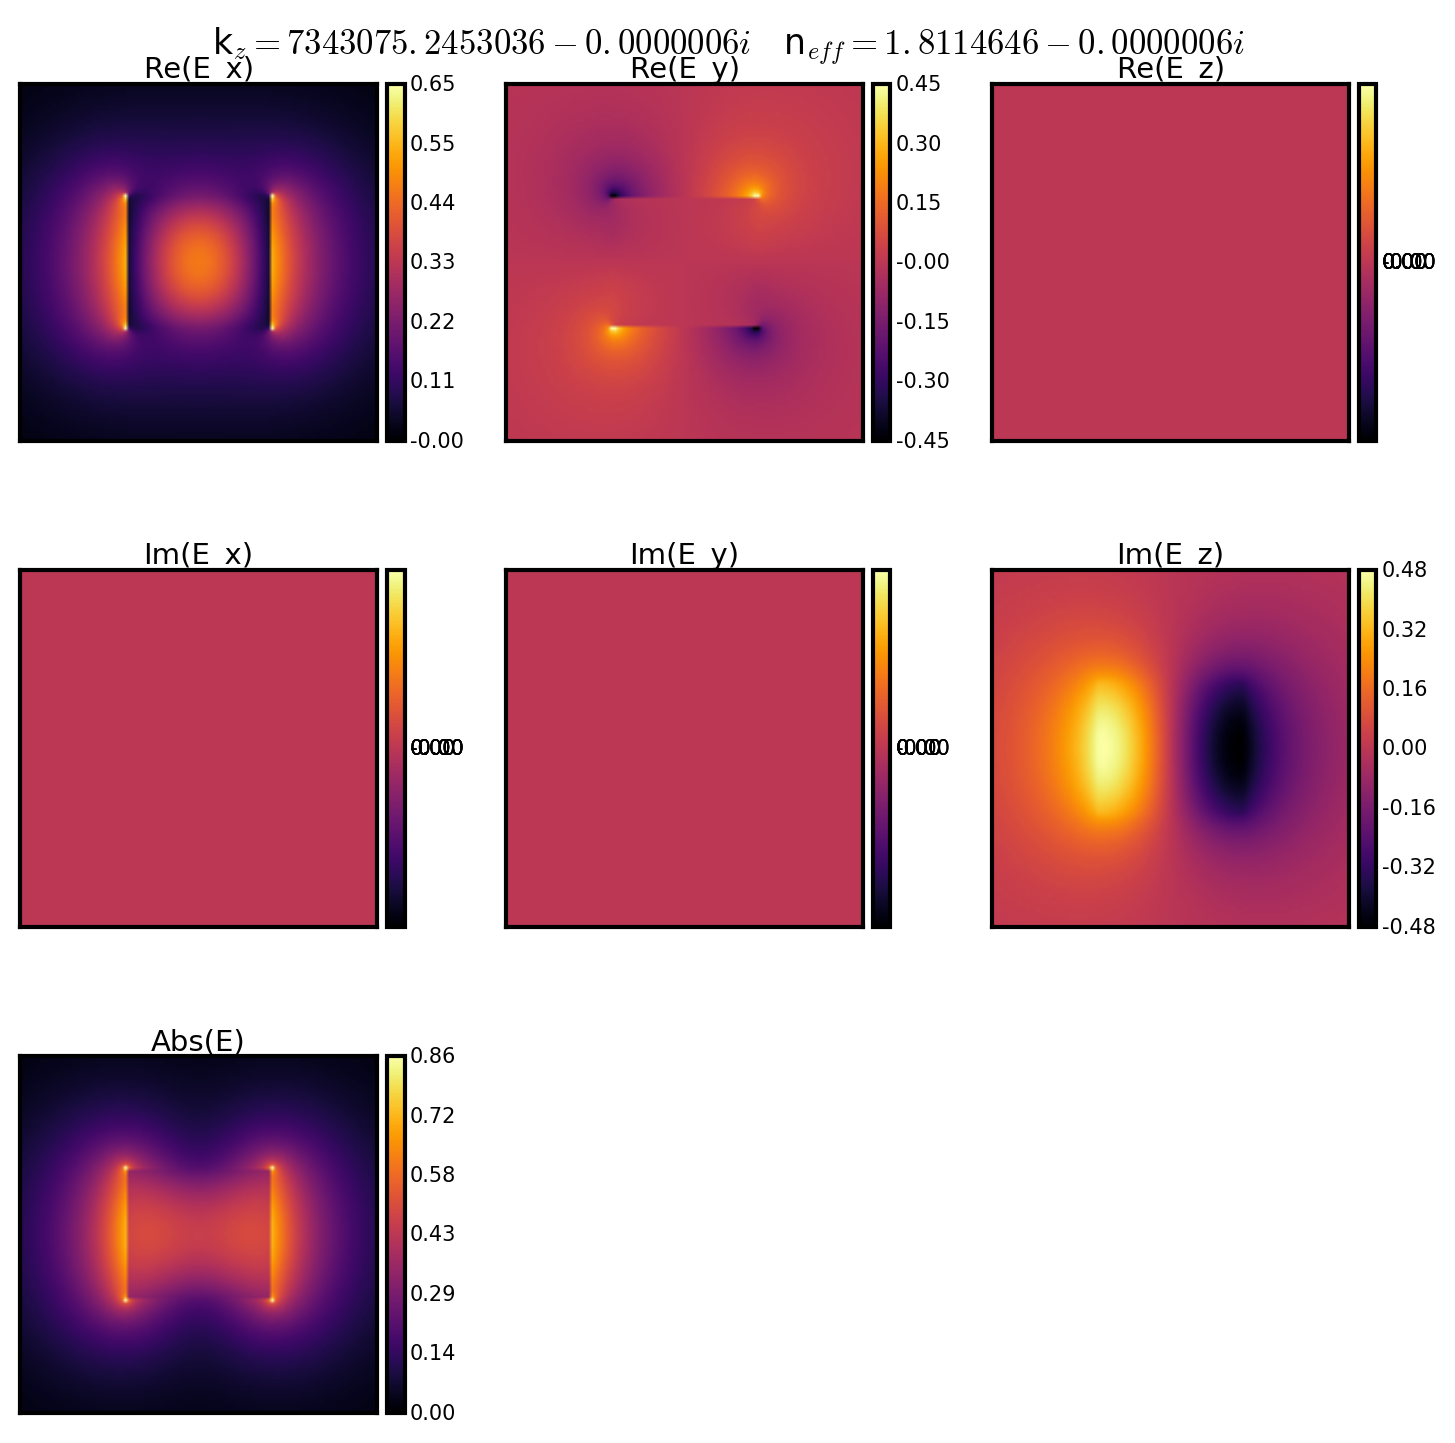
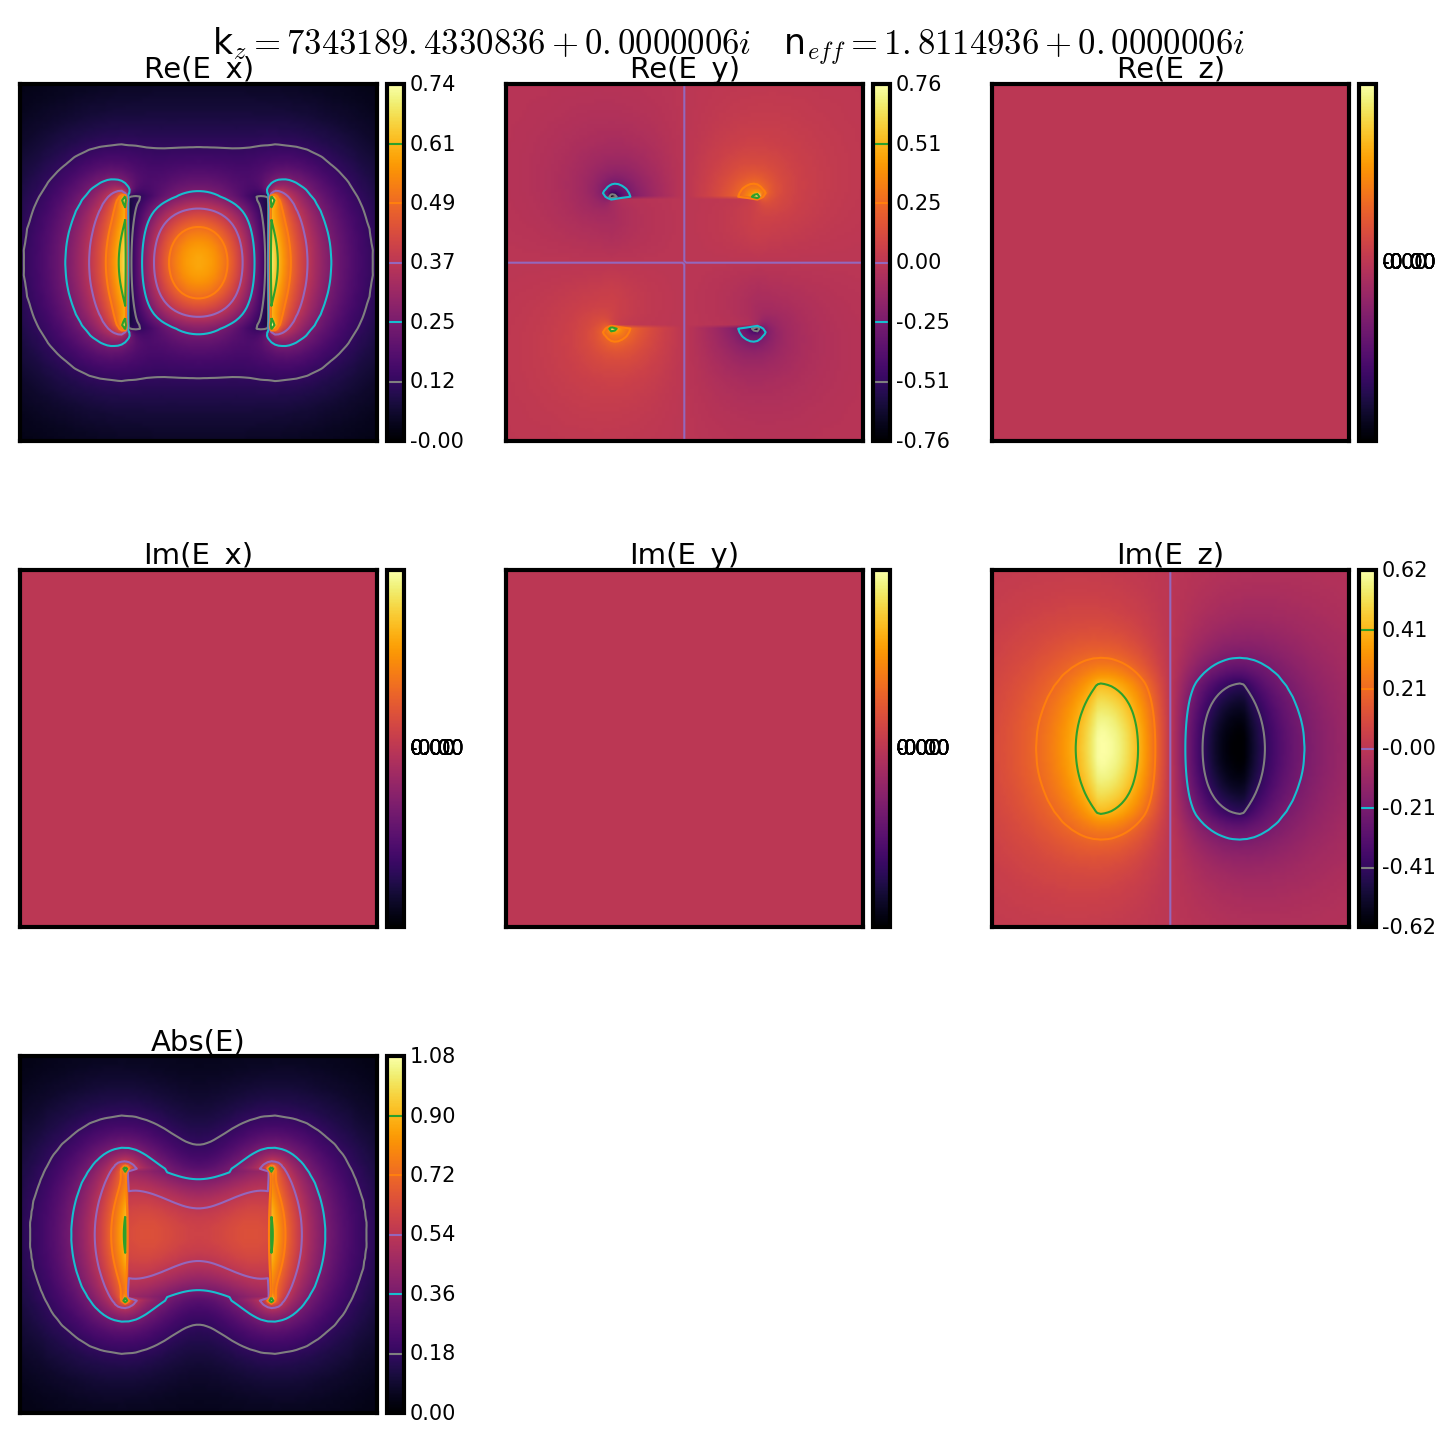
Added improved fields.

diff --git a/tutorials/simo-tut_02-gain_spectra-npsave.py b/tutorials/simo-tut_02-gain_spectra-npsave.py
@@ -74,11 +74,13 @@ print('k_z of EM modes \n', np.round(np.real(sim_EM_pump.Eig_values), 4))
 
 # Plot the E fields of the EM modes fields - specified with EM_AC='EM_E'.
 # Zoom in on the central region (of big unitcell) with xlim_, ylim_ args.
-plotting.plt_mode_fields(sim_EM_pump, xlim_min=0.4, xlim_max=0.4, 
-                         ylim_min=0.4, ylim_max=0.4, EM_AC='EM_E', prefix_str=prefix_str)
+# Only plot fields of fundamental (ival = 0) mode.
+plotting.plt_mode_fields(sim_EM_pump, xlim_min=0.4, xlim_max=0.4, ylim_min=0.4,
+                         ylim_max=0.4, ivals=[0], contours=True, EM_AC='EM_E', 
+                         prefix_str=prefix_str)
 # Plot the H fields of the EM modes - specified with EM_AC='EM_H'.
-plotting.plt_mode_fields(sim_EM_pump, xlim_min=0.4, xlim_max=0.4, 
-                         ylim_min=0.4, ylim_max=0.4, EM_AC='EM_H', prefix_str=prefix_str)
+plotting.plt_mode_fields(sim_EM_pump, xlim_min=0.4, xlim_max=0.4, ylim_min=0.4,
+                         ylim_max=0.4, ivals=[0], EM_AC='EM_H', prefix_str=prefix_str)
 
 # Calculate the EM effective index of the waveguide.
 n_eff_sim = np.real(sim_EM_pump.Eig_values[0]*((wl_nm*1e-9)/(2.*np.pi)))
@@ -102,7 +104,8 @@ print('Freq of AC modes (GHz) \n', np.round(np.real(sim_AC.Eig_values)*1e-9, 4))
 # which excludes vacuum regions, so no need to restrict area plotted.
 # We want to get pdf files so set pdf_png='pdf' 
 # (default is png as these are easier to flick through).
-plotting.plt_mode_fields(sim_AC, EM_AC='AC', pdf_png='pdf', prefix_str=prefix_str)
+plotting.plt_mode_fields(sim_AC, EM_AC='AC', pdf_png='pdf', contours=True, 
+                         prefix_str=prefix_str)
 
 # Do not calculate the acoustic loss from our fields, instead set a Q factor.
 set_q_factor = 1000.

diff --git a/backend/plotting.py b/backend/plotting.py
@@ -477,10 +477,9 @@ def plt_mode_fields(sim_wguide, ivals=None, n_points=500, quiver_steps=50,
             if contours:
                 if contour_lst:
                     cbarticks = contour_lst
-                    print(contour_lst)
                 if np.max(np.abs(plot[~np.isnan(plot)])) > plot_threshold:
                     CS2 = ax.contour(v_XX, v_YY, plot.T, levels=cbarticks, colors=colors[::-1], linewidths=(1.5,))
-                cbar.add_lines(CS2)
+                    cbar.add_lines(CS2)
             cbar.ax.tick_params(labelsize=title_font-10)
 
 

diff --git a/docs/source/tutorial.rst b/docs/source/tutorial.rst
@@ -177,31 +177,31 @@ Elements to note:
 
 
 .. figure:: ../../tutorials/tut_02-fields/EM_E_field_0.png
-   :scale: 70 %
+   :scale: 50 %
    
    Fundamental optical mode fields.
 
 
 .. figure:: ../../tutorials/tut_02-fields/AC_field_2.png
-   :scale: 70 %
+   :scale: 50 %
    
    Acoustic mode with high gain due to moving boundary effect.
 
 
 .. figure:: ../../tutorials/tut_02-fields/AC_field_4.png
-   :scale: 70 %
+   :scale: 50 %
    
    Acoustic mode with high gain due to moving boundary effect.
 
 
 .. figure:: ../../tutorials/tut_02-gain_spectra-MB_PE_comps.png
-   :scale: 70 %
+   :scale: 50 %
    
    Gain spectra showing gain due to photoelastic effec, gain due to moving boundary effect, and total gain.
 
 
 .. figure:: ../../tutorials/tut_02-gain_spectra-MB_PE_comps_zoom.png
-   :scale: 70 %
+   :scale: 50 %
    
    Zoomed in gain spectra.
 
@@ -254,31 +254,31 @@ Convergence Study
 
 
 .. figure:: ../../tutorials/tut_05-convergence-freq_EM.png
-   :scale: 70 %
+   :scale: 50 %
    
    Convergence of optical mode frequencies.
 
 
 .. figure:: ../../tutorials/tut_05-convergence-freq_AC.png
-   :scale: 70 %
+   :scale: 50 %
    
    Convergence of acoustic mode frequencies.
 
 
 .. figure:: ../../tutorials/tut_05-convergence-Gain_PE.png
-   :scale: 70 %
+   :scale: 50 %
    
    Convergence of photoelastic gain.
 
 
 .. figure:: ../../tutorials/tut_05-convergence-Gain_MB.png
-   :scale: 70 %
+   :scale: 50 %
    
    Convergence of moving boundary gain.
 
 
 .. figure:: ../../tutorials/tut_05-convergence-Gain.png
-   :scale: 70 %
+   :scale: 50 %
    
    Convergence of total gain.
 
@@ -291,7 +291,7 @@ Silica Nanowire
 
 
 .. figure:: ../../tutorials/tut_06-gain_spectra-MB_PE_comps_SiO2_NW.png
-   :scale: 70 %
+   :scale: 50 %
    
    Gain spectra showing gain due to photoelastic effec, gain due to moving boundary effect, and total gain.
 
@@ -304,7 +304,7 @@ Slot Waveguide
 
 
 .. figure:: ../../tutorials/tut_07-gain_spectra-MB_PE_comps_slot.png
-   :scale: 70 %
+   :scale: 50 %
    
    Gain spectra showing gain due to photoelastic effec, gain due to moving boundary effect, and total gain.
 
@@ -317,19 +317,19 @@ Slot Waveguide Scan Covering
 
 
 .. figure:: ../../tutorials/tut_08-gain_spectra-MB_PE_comps_50.png
-   :scale: 70 %
+   :scale: 50 %
    
    Spectra with thinnest covering layer.
 
 
 .. figure:: ../../tutorials/tut_08-gain_spectra-MB_PE_comps_125.png
-   :scale: 70 %
+   :scale: 50 %
    
    Spectra with medium covering layer.
 
 
 .. figure:: ../../tutorials/tut_08-gain_spectra-MB_PE_comps_200.png
-   :scale: 70 %
+   :scale: 50 %
    
    Spectra with thick covering layer.
 
